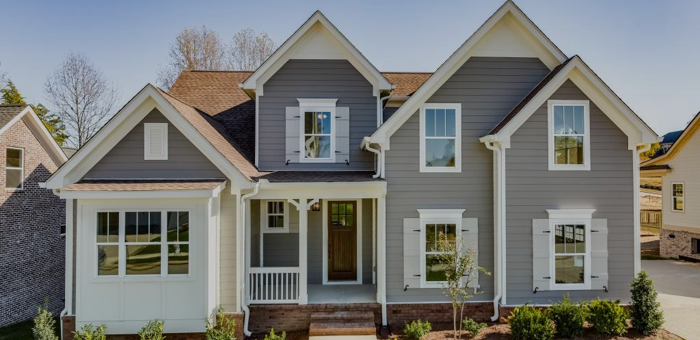
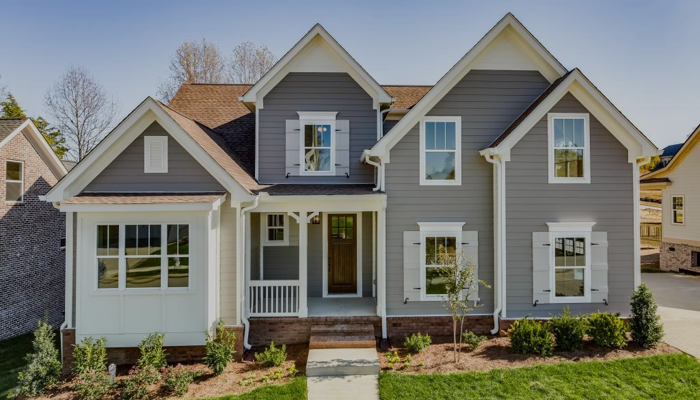
styles

diff --git a/app/assets/stylesheets/_home.scss b/app/assets/stylesheets/_home.scss
@@ -5,7 +5,6 @@
   background-repeat: no-repeat;
   background-position: center;
   background-size: cover;
-  margin-top: -52px;
 }
 .hero {
   display: flex;
@@ -60,11 +59,17 @@
 }
 .block__text {
   color: $white;
-  font-family: $font_thin;
+  font-family: $font_thinital;
   font-size: 1.8rem;
   padding: 0;
   margin: 0;
   text-align: center;
+}
+#options {
+  background: #ddd;
+}
+.pad20 {
+  padding: 20px 0;
 }
 .option {
   display: flex;
@@ -77,7 +82,8 @@
   flex-direction: row-reverse;
   justify-content: center;
   align-items: center;
-  background: #fdfdfd;
+  border-top: 1px solid #bbb;
+  border-bottom: 1px solid #bbb;
 }
 .option__img {
   width: 50vw;
@@ -85,6 +91,7 @@
 }
 .option__img-pic {
   width: 100%;
+  border: 8px solid $white;
 }
 .option__content {
   width: 50vw;
@@ -117,7 +124,7 @@
   letter-spacing: 1px;
   text-transform: uppercase;
   text-decoration: none !important;
-  margin: 0
+  margin: 0 0 20px 0;
 }
 .option__btn:hover, .option__btn:focus {
   color: $white !important;

diff --git a/app/assets/stylesheets/bootstrap.css b/app/assets/stylesheets/bootstrap.css
@@ -4171,7 +4171,7 @@ select[multiple].input-group-sm > .input-group-btn > .btn {
 }
 @media (min-width: 768px) {
   .navbar {
-    border-radius: 4px;
+    border-radius: 0;
   }
 }
 @media (min-width: 768px) {
@@ -4497,8 +4497,8 @@ select[multiple].input-group-sm > .input-group-btn > .btn {
 /***** START OF NAVBAR DEFAULT *****/
 
 .navbar-default {
-  background-color: transparent;
-  border-color: transparent;
+  background-color: #222;
+  border-color: #222;
 }
 .navbar-default .navbar-brand {
   color: #777;

diff --git a/app/assets/stylesheets/pages.scss b/app/assets/stylesheets/pages.scss
@@ -32,8 +32,13 @@ body {
 }
 @font-face {
   font-family: 'RobotoBlack';
-  src: font_url('RobotoBlack.ttf');
+  src: font_url('Roboto-Black.ttf');
 }
+@font-face {
+  font-family: 'RobotoThinItal';
+  src: font_url('Roboto-ThinItalic.ttf');
+}
+
 
 @import 'home';
 @import 'footer';

diff --git a/app/assets/stylesheets/_variables.scss b/app/assets/stylesheets/_variables.scss
@@ -5,6 +5,8 @@ $font_regular: 'RobotoRegular';
 $font_bold: 'RobotoBold';
 $font_black: 'RobotoBlack';
 
+$font_thinital: 'RobotoThinItal';
+
 // Colors
 $black: #222;
 $white: #fefefe;
